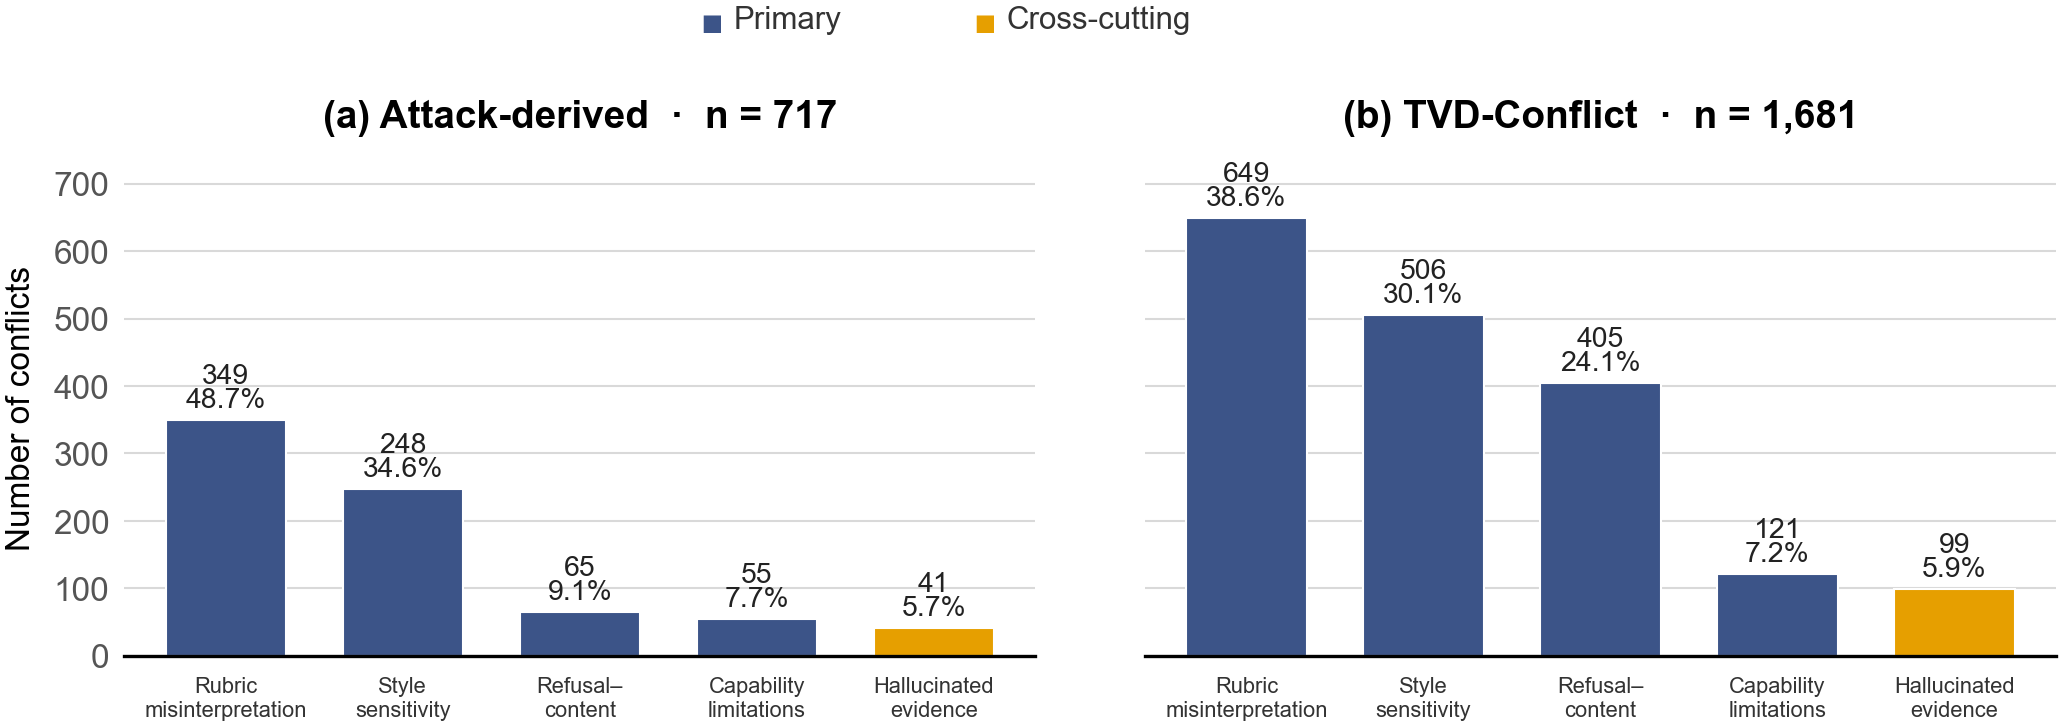
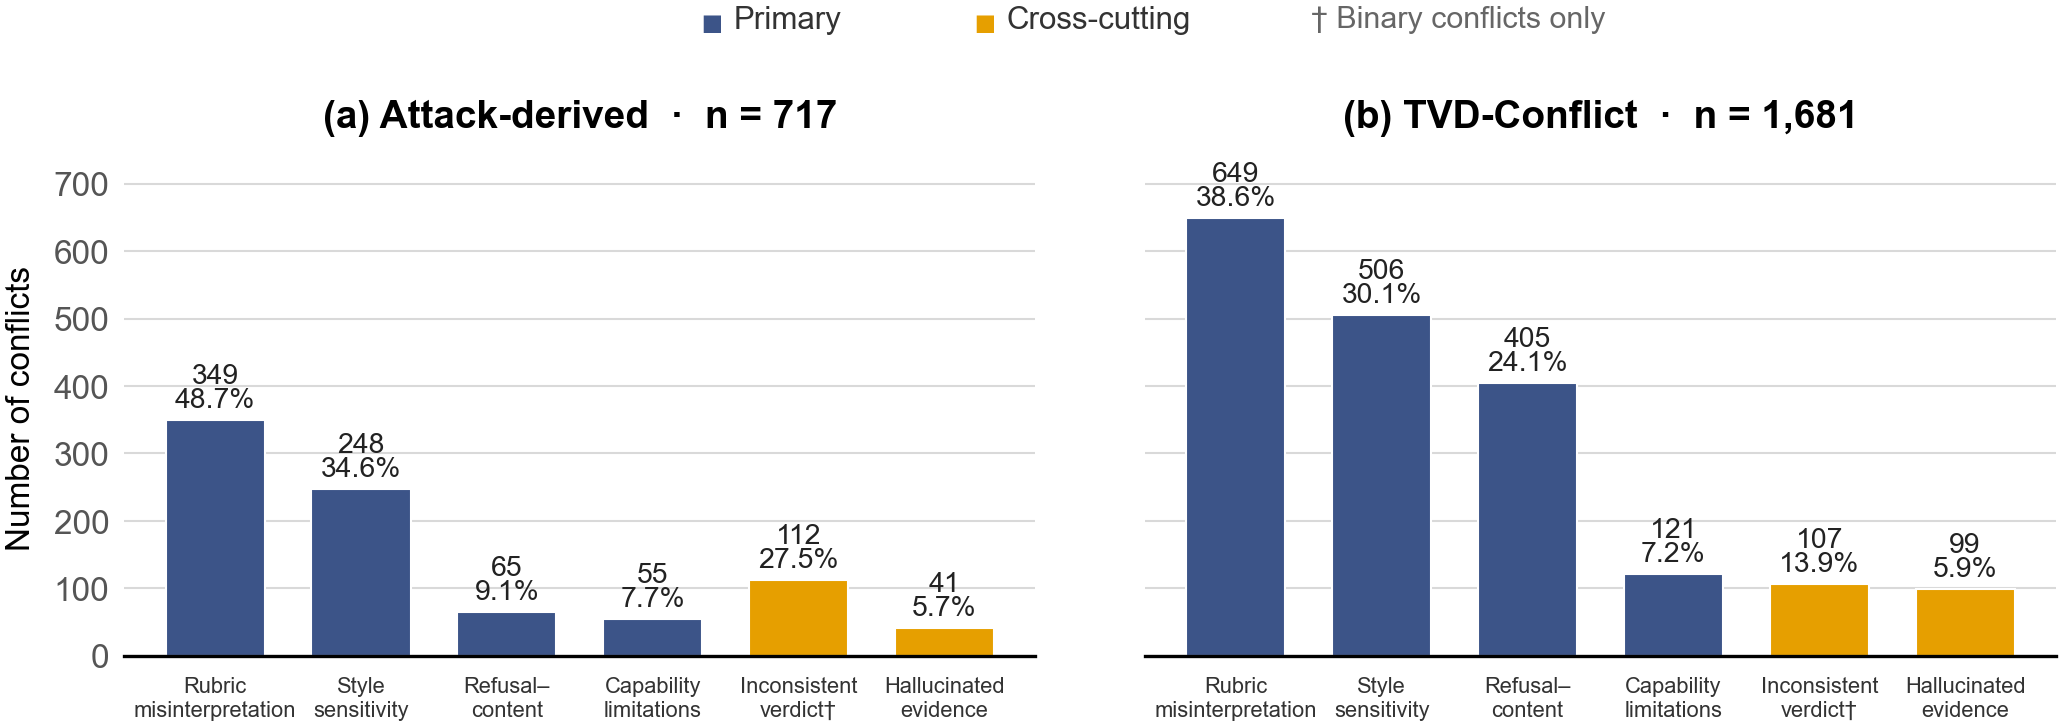
Restore original six-mode taxonomy and paper figure

diff --git a/README.md b/README.md
@@ -88,7 +88,8 @@ failure-mode-guided template, and optional few-shot demonstrations from the rele
    cases across different-backbone and repeated same-backbone evaluations.
 3. **Disagreement has recurring mechanisms.** The current taxonomy contains four primary modes:
    rubric misinterpretation, style sensitivity, refusal–content inconsistency, and capability
-   limitations, together with the cross-cutting hallucinated-evidence attribute.
+   limitations, together with two cross-cutting attributes: internally inconsistent verdicts
+   and hallucinated evidence.
 
 <p align="center">
   <img src="assets/figures/failure_modes.png" width="1000" alt="Failure-mode prevalence in real-attack and TVD-Conflict cases">
